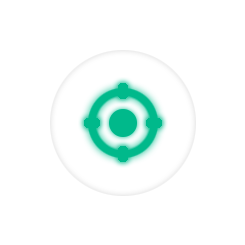
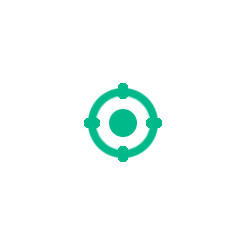
v 1.0.18 新增图片，定位按钮增加回到中心功能

Changed region(s): [[0.3143, 0.3143, 0.6857, 0.6857]]

diff --git a/components/myMap.vue b/components/myMap.vue
@@ -1,7 +1,7 @@
 <template>
 	<view>
 		<map id="myMap" style="width: 100%; height: 100vh;" :latitude="latitude" :longitude="longitude"
-			:markers="covers" :setting="mapSetting" :circles="circles">
+			:markers="covers" :setting="mapSetting" :circles="circles" :scale="scale">
 		</map>
 	</view>
 </template>
@@ -22,11 +22,12 @@
 					"enableScroll": true,
 					"enableRotate": true,
 					"showLocation": true,
-					"subkey": "HVTBZ-KOFW6-JDUSX-ESY54-6WWQK-LEF73"
+					"subkey": "HVTBZ-KOFW6-JDUSX-ESY54-6WWQK-LEF73",
 				},
-				covers: [
-				],
-				circles: []
+				covers: [],
+				circles: [],
+				mapContext: null,
+				scale:16,
 			}
 		},
 		mounted() {
@@ -35,7 +36,7 @@
 		computed: {
 			getRelocationRes() {
 				let res = this.$store.state.locationres;
-				if (res) {
+				if (res && res != {} && res.errMsg=="getLocation:ok") {
 					this.latitude = res.latitude;
 					this.longitude = res.longitude;
 					this.circles.splice(0, 1, {
@@ -43,15 +44,22 @@
 						longitude: this.longitude,
 						fillColor: "#4162996A",
 						color: "#b0daff",
-						radius: 300,
+						radius: 300, 
 						strokeWidth: 1,
 					})
 				}
-				this.$store.commit('setLocationRes',null);
+				if (this.mapContext) {
+					this.mapContext.moveToLocation({
+						latitude: this.latitude, 
+						longitude: this.longitude
+					})
+				}
+				this.$store.commit('setLocationRes', null);
 			}
 		},
 		methods: {
 			openLocation() {
+				this.mapContext = uni.createMapContext('myMap', this)
 				wx.startLocationUpdate({
 					success: (res) => {
 						wx.onLocationChange((res) => { //调用实时获取定位
@@ -68,20 +76,20 @@
 							/*
 							ONLY FOR TESTING!!!
 							*/
-						   for (var i = 0; i < 20; i++) {
-						   	this.covers.splice(i,1,{
-						   		title: i,
-						   		id: i,
-						   		latitude: this.latitude + (Math.random() - 0.5) / 100,
-						   		longitude: this.longitude + (Math.random() - 0.5) / 100,
-						   		iconPath: "/static/image/charger.png",
-						   		width: 40,
-						   		height: 40
-						   	});
-						   }
-						   /*
-						   ONLY FOR TESTING!!!
-						   */
+							for (var i = 0; i < 20; i++) {
+								this.covers.splice(i, 1, {
+									title: i,
+									id: i,
+									latitude: this.latitude + (Math.random() - 0.5) / 100,
+									longitude: this.longitude + (Math.random() - 0.5) / 100,
+									iconPath: "/static/image/charger.png",
+									width: 40,
+									height: 40
+								});
+							}
+							/*
+							ONLY FOR TESTING!!!
+							*/
 						});
 					},
 					fail: (err) => {

diff --git a/components/moveBox.vue b/components/moveBox.vue
@@ -16,67 +16,7 @@
 					<totalbutton :text1="'借电桩'" :text2="'出租电桩'" :selected="isSelected2" @tap="tapButton2()"></totalbutton>
 				</card>
 				<scroller :margintop="margin[2].margintop" :marginbottom="margin[2].marginbottom">
-					<!-- <order>
-						<view>
-							<text>逆天</text>
-						</view>
-						<view>
-							<text>逆天</text>
-						</view>
-						<view>
-							<text>逆天</text>
-						</view>
-						<view>
-							<text>逆天</text>
-						</view>
-						<view>
-							<text>逆天</text>
-						</view>
-						<view>
-							<text>逆天</text>
-						</view>
-					</order>
-					<order>
-						<view>
-							<text>逆天</text>
-						</view>
-						<view>
-							<text>逆天</text>
-						</view>
-						<view>
-							<text>逆天</text>
-						</view>
-						<view>
-							<text>逆天</text>
-						</view>
-						<view>
-							<text>逆天</text>
-						</view>
-						<view>
-							<text>逆天</text>
-						</view>
-					</order>
-					<order>
-						<view>
-							<text>逆天</text>
-						</view>
-						<view>
-							<text>逆天</text>
-						</view>
-						<view>
-							<text>逆天</text>
-						</view>
-						<view>
-							<text>逆天</text>
-						</view>
-						<view>
-							<text>逆天</text>
-						</view>
-						<view>
-							<text>逆天</text>
-						</view>
-					</order> -->
-					<order v-for="(order,index) in orders" :index="index" :orderSelected="orderSelected" @emit="tapOrder()">
+					<order v-for="(order,index) in orders" :index="index" :key="index" :orderSelected="orderSelected" @emit="tapOrder()">
 						<view>
 							<text>逆天</text>
 						</view>

diff --git a/components/locationButton.vue b/components/locationButton.vue
@@ -26,7 +26,10 @@
 					type: "gcj02",
 					success: res => {
 						this.$store.commit('setLocationRes',res);
-					}
+					},
+					fail: () => {
+						this.$store.commit('setLocationRes',{});
+					},
 				});
 			}
 		}
